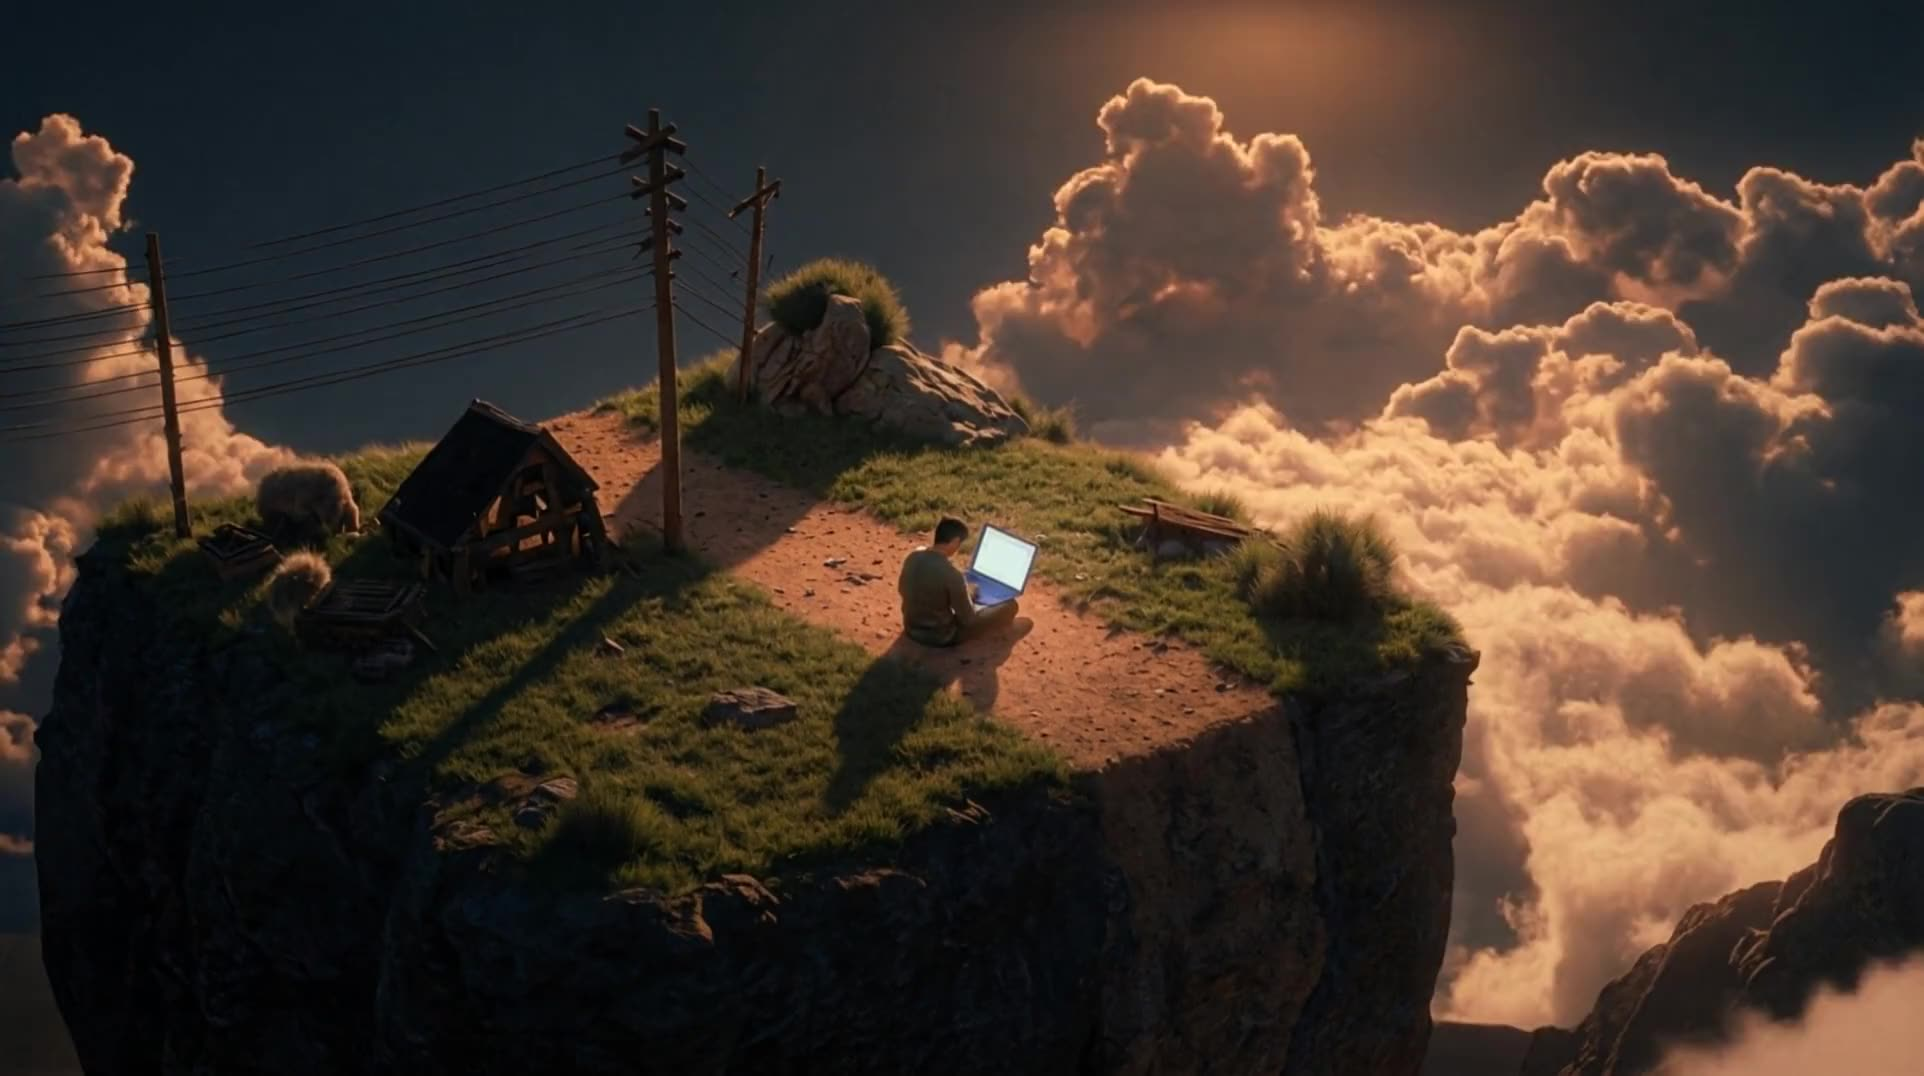
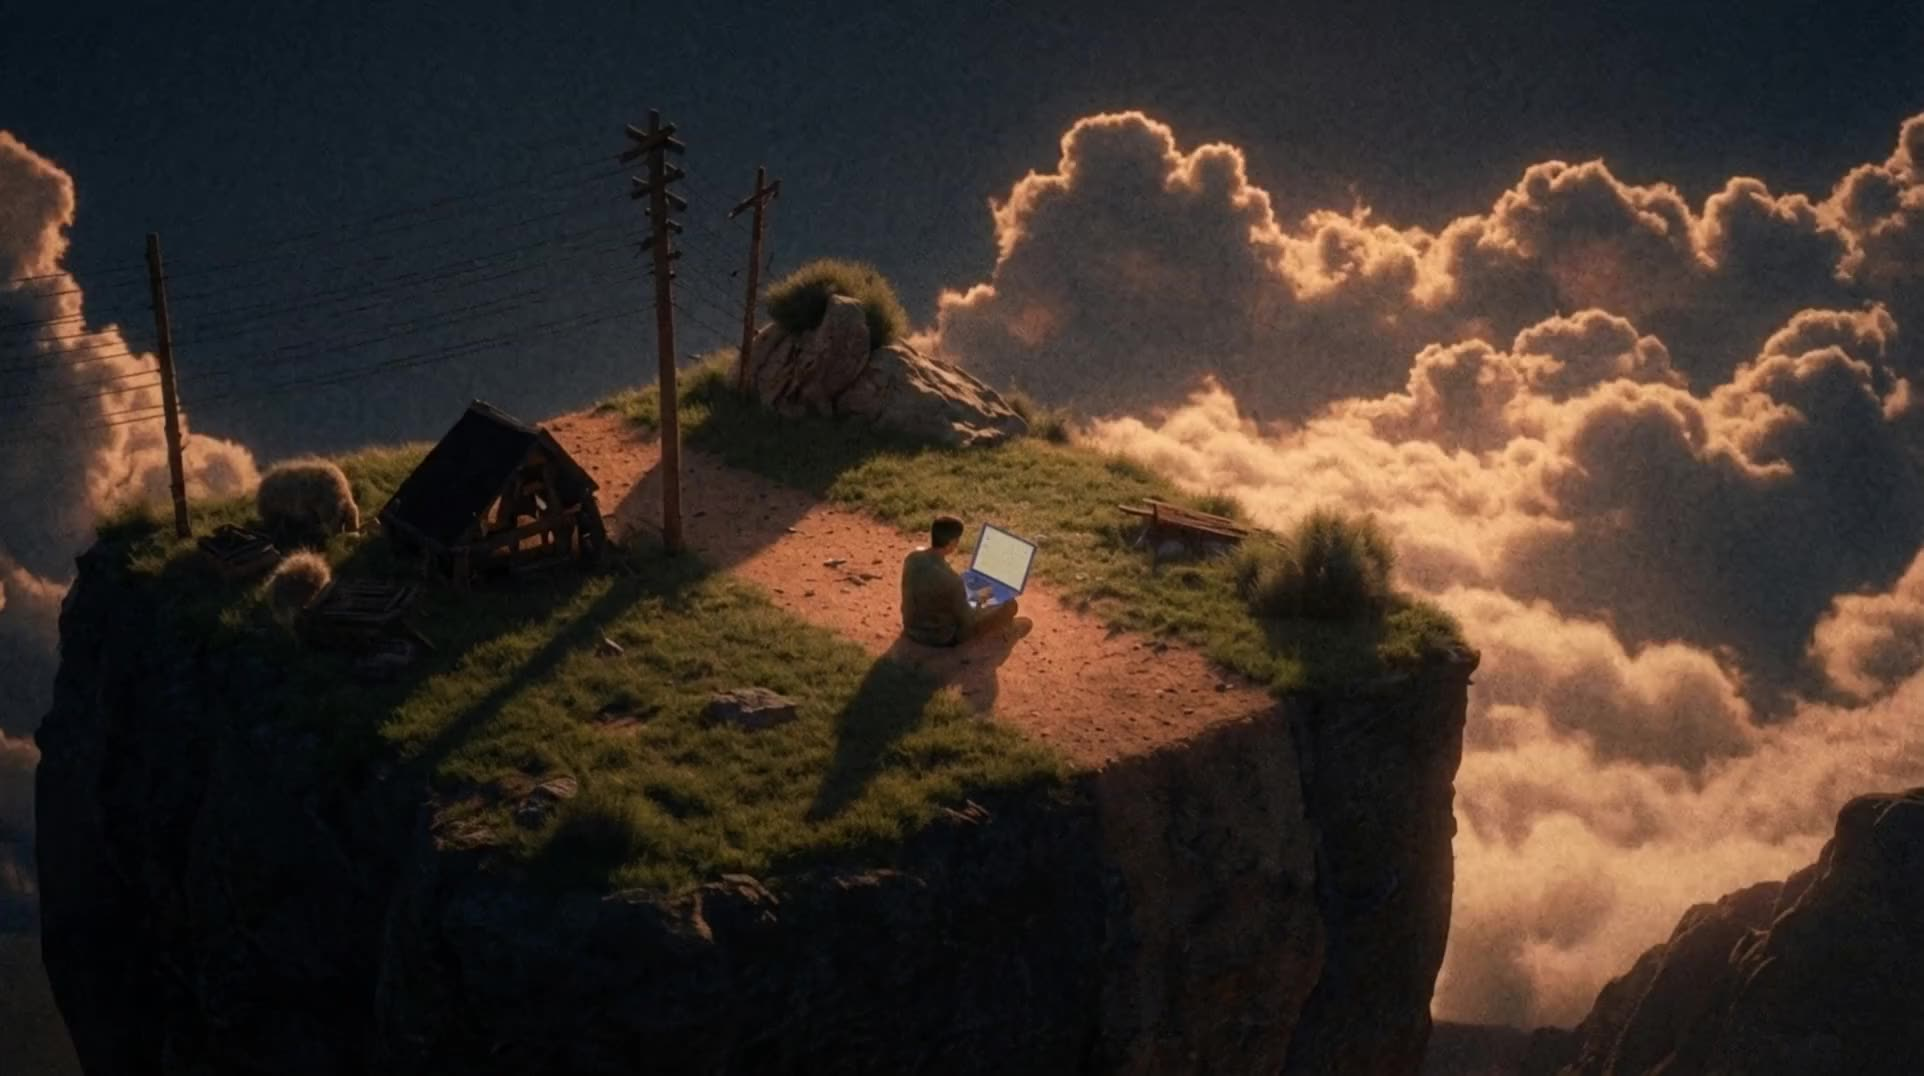
Hero: ping-pong loop instead of crossfade; grain loses its blend mode
- The 1.2s crossfade still read as a visible ghosty dissolve on moving
  clouds. The loop is now forward + reverse (20s total): the turnaround
  is frame-continuous, so there is no dissolve and no seam at all — the
  clouds just drift back. Built from the original pre-crossfade clip.
- The hero grain dropped mix-blend-overlay for plain alpha at 0.07:
  the blend forced re-blending of the hero under the moving cursor
  layer — the remaining lag/trail the GPU-layer pass didn't cover.

diff --git a/src/components/Hero.tsx b/src/components/Hero.tsx
@@ -61,7 +61,10 @@ export function Hero() {
           animate={{ opacity: 1 }}
           transition={{ duration: 1.6, ease: easeOut }}
         />
-        <div className="absolute inset-0 noise-overlay opacity-[0.7] mix-blend-overlay pointer-events-none" />
+        {/* Plain alpha grain, no blend mode: mix-blend-overlay forced the
+            browser to re-blend the hero under anything composited moving
+            across it (the cursor ring) — lag + pixel trails on real GPUs. */}
+        <div className="absolute inset-0 noise-overlay opacity-[0.07] pointer-events-none" />
         <div className="absolute inset-0 bg-gradient-to-b from-black/30 via-transparent to-black/60 pointer-events-none" />
 
         {/* Mini-nav: action links only, centered hanging from the top */}